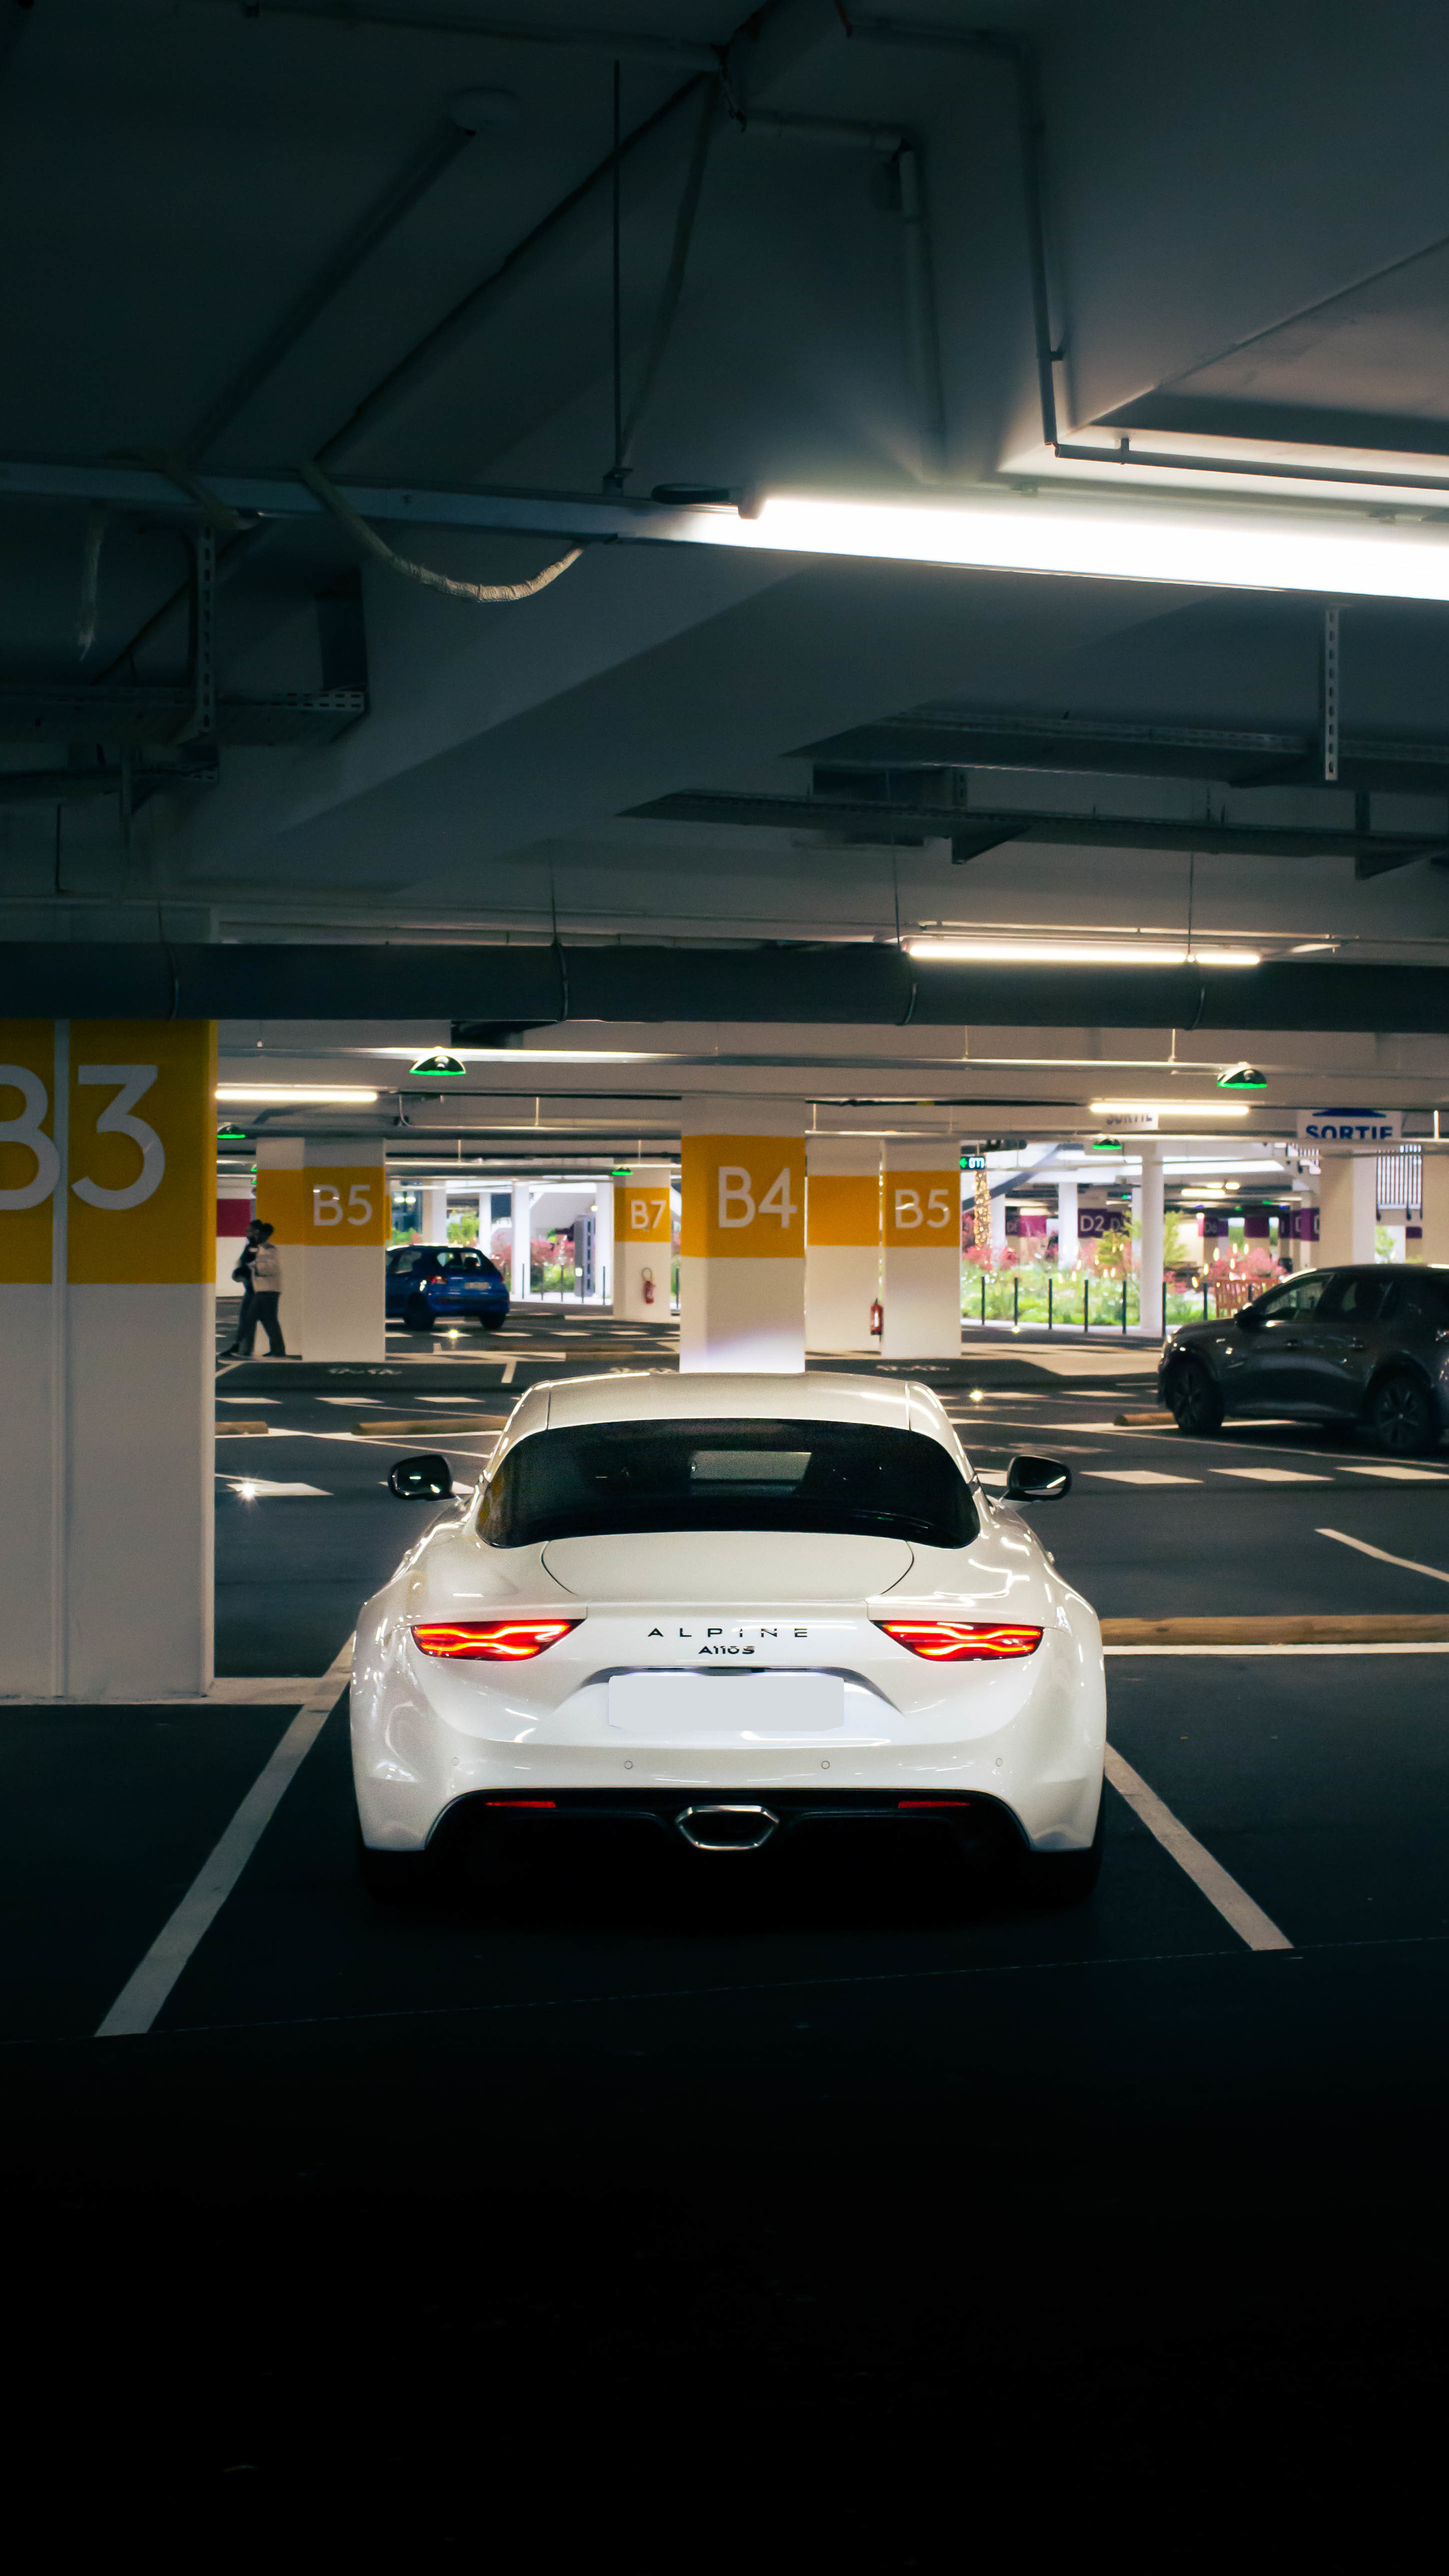
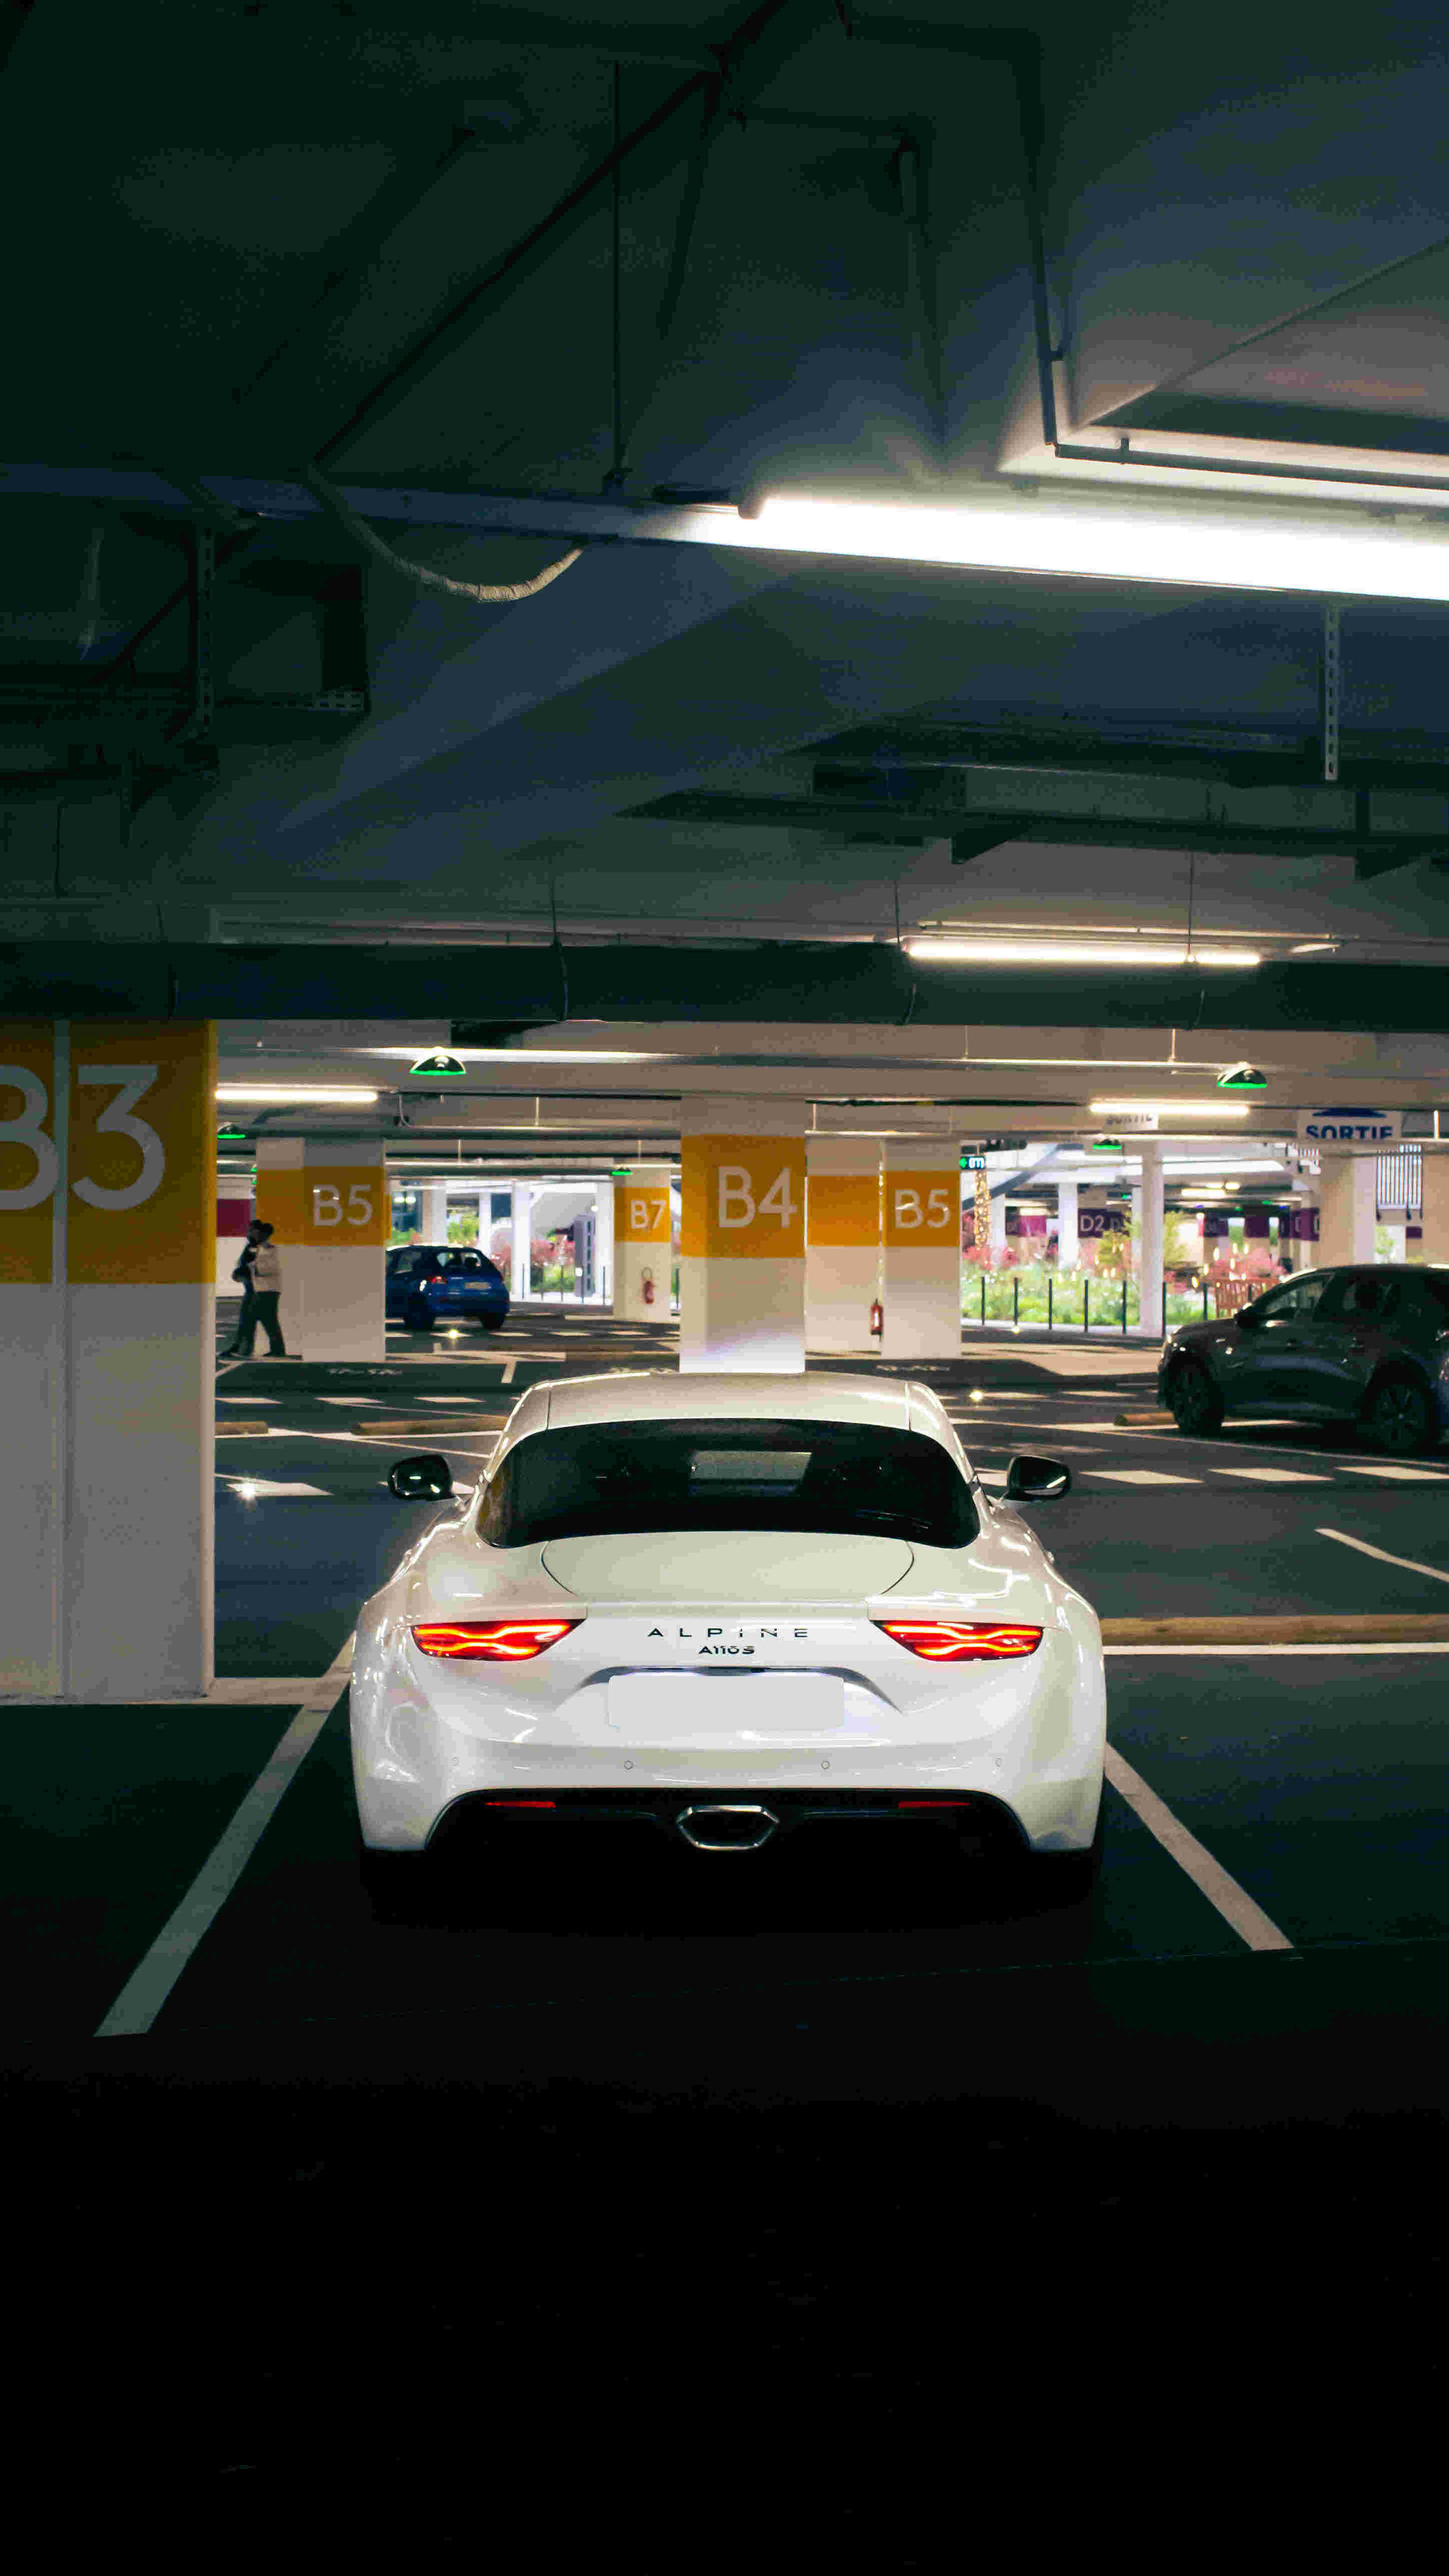
Add files via upload

Changed region(s): [[0.6213, 0.6214, 0.7145, 0.6524], [0.2796, 0.6214, 0.3728, 0.6524]]

diff --git a/a110sparking1.html b/a110sparking1.html
@@ -51,7 +51,9 @@
             </tr>
         </table>
         <br>
-        <h3>Paiement sur paypal uniquement<br>Cadre non inclus</h3>
+        <h3>Paiement sur paypal uniquement<br>Cadre non inclus<br>
+            La qualité des images a été volontairement baissée pour éviter 
+            tout vol</h3>
         <br>
         <button class="form">
             <a href="https://docs.google.com/forms/d/e/1FAIpQLScJF6H6XcGTWSPbOX0ELpZSYP17W-qlOEIr-XsmdEcwdlMalQ/viewform?usp=sf_link">Formulaire de commande</a>

diff --git a/a110sparking2.html b/a110sparking2.html
@@ -51,7 +51,9 @@
             </tr>
         </table>
         <br>
-        <h3>Paiement sur paypal uniquement<br>Cadre non inclus</h3>
+        <h3>Paiement sur paypal uniquement<br>Cadre non inclus<br>
+            La qualité des images a été volontairement baissée pour éviter 
+            tout vol</h3>
         <br>
         <button class="form">
             <a href="https://docs.google.com/forms/d/e/1FAIpQLScJF6H6XcGTWSPbOX0ELpZSYP17W-qlOEIr-XsmdEcwdlMalQ/viewform?usp=sf_link">Formulaire de commande</a>

diff --git a/a110sposter3.html b/a110sposter3.html
@@ -51,7 +51,9 @@
             </tr>
         </table>
         <br>
-        <h3>Paiement sur paypal uniquement<br>Cadre non inclus</h3>
+        <h3>Paiement sur paypal uniquement<br>Cadre non inclus<br>
+            La qualité des images a été volontairement baissée pour éviter 
+            tout vol</h3>
         <br>
         <button class="form">
             <a href="https://docs.google.com/forms/d/e/1FAIpQLScJF6H6XcGTWSPbOX0ELpZSYP17W-qlOEIr-XsmdEcwdlMalQ/viewform?usp=sf_link">Formulaire de commande</a>

diff --git a/porschegt3rraidillon.html b/porschegt3rraidillon.html
@@ -51,7 +51,9 @@
             </tr>
         </table>
         <br>
-        <h3>Paiement sur paypal uniquement<br>Cadre non inclus</h3>
+        <h3>Paiement sur paypal uniquement<br>Cadre non inclus<br>
+            La qualité des images a été volontairement baissée pour éviter 
+            tout vol</h3>
         <br>
         <button class="form">
             <a href="https://docs.google.com/forms/d/e/1FAIpQLScJF6H6XcGTWSPbOX0ELpZSYP17W-qlOEIr-XsmdEcwdlMalQ/viewform?usp=sf_link">Formulaire de commande</a>

diff --git a/a110sforet.html b/a110sforet.html
@@ -51,7 +51,9 @@
             </tr>
         </table>
         <br>
-        <h3>Paiement sur paypal uniquement<br>Cadre non inclus</h3>
+        <h3>Paiement sur paypal uniquement<br>Cadre non inclus<br>
+        La qualité des images a été volontairement baissée pour éviter 
+        tout vol</h3>
         <br>
         <button class="form">
             <a href="https://docs.google.com/forms/d/e/1FAIpQLScJF6H6XcGTWSPbOX0ELpZSYP17W-qlOEIr-XsmdEcwdlMalQ/viewform?usp=sf_link">Formulaire de commande</a>
